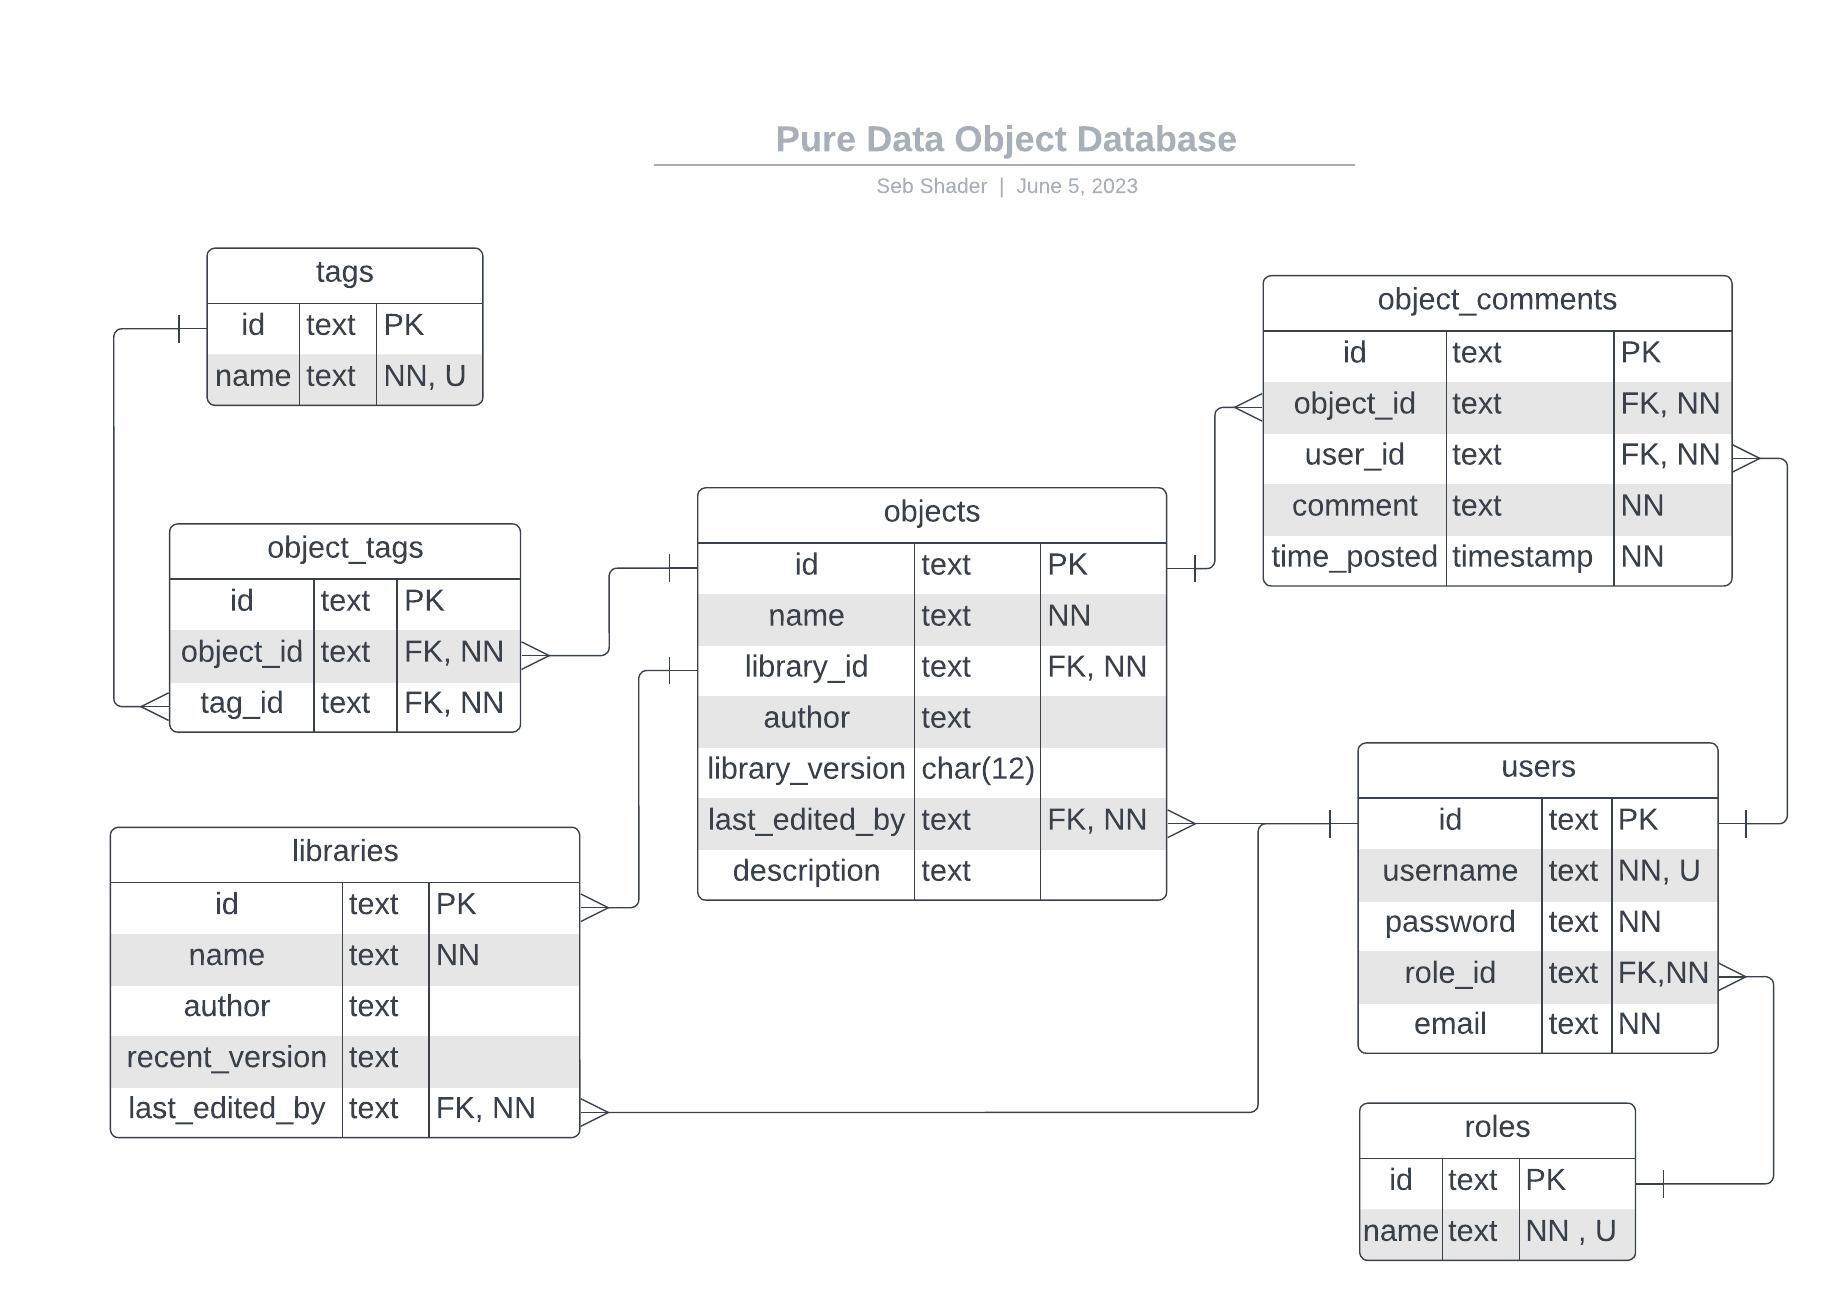
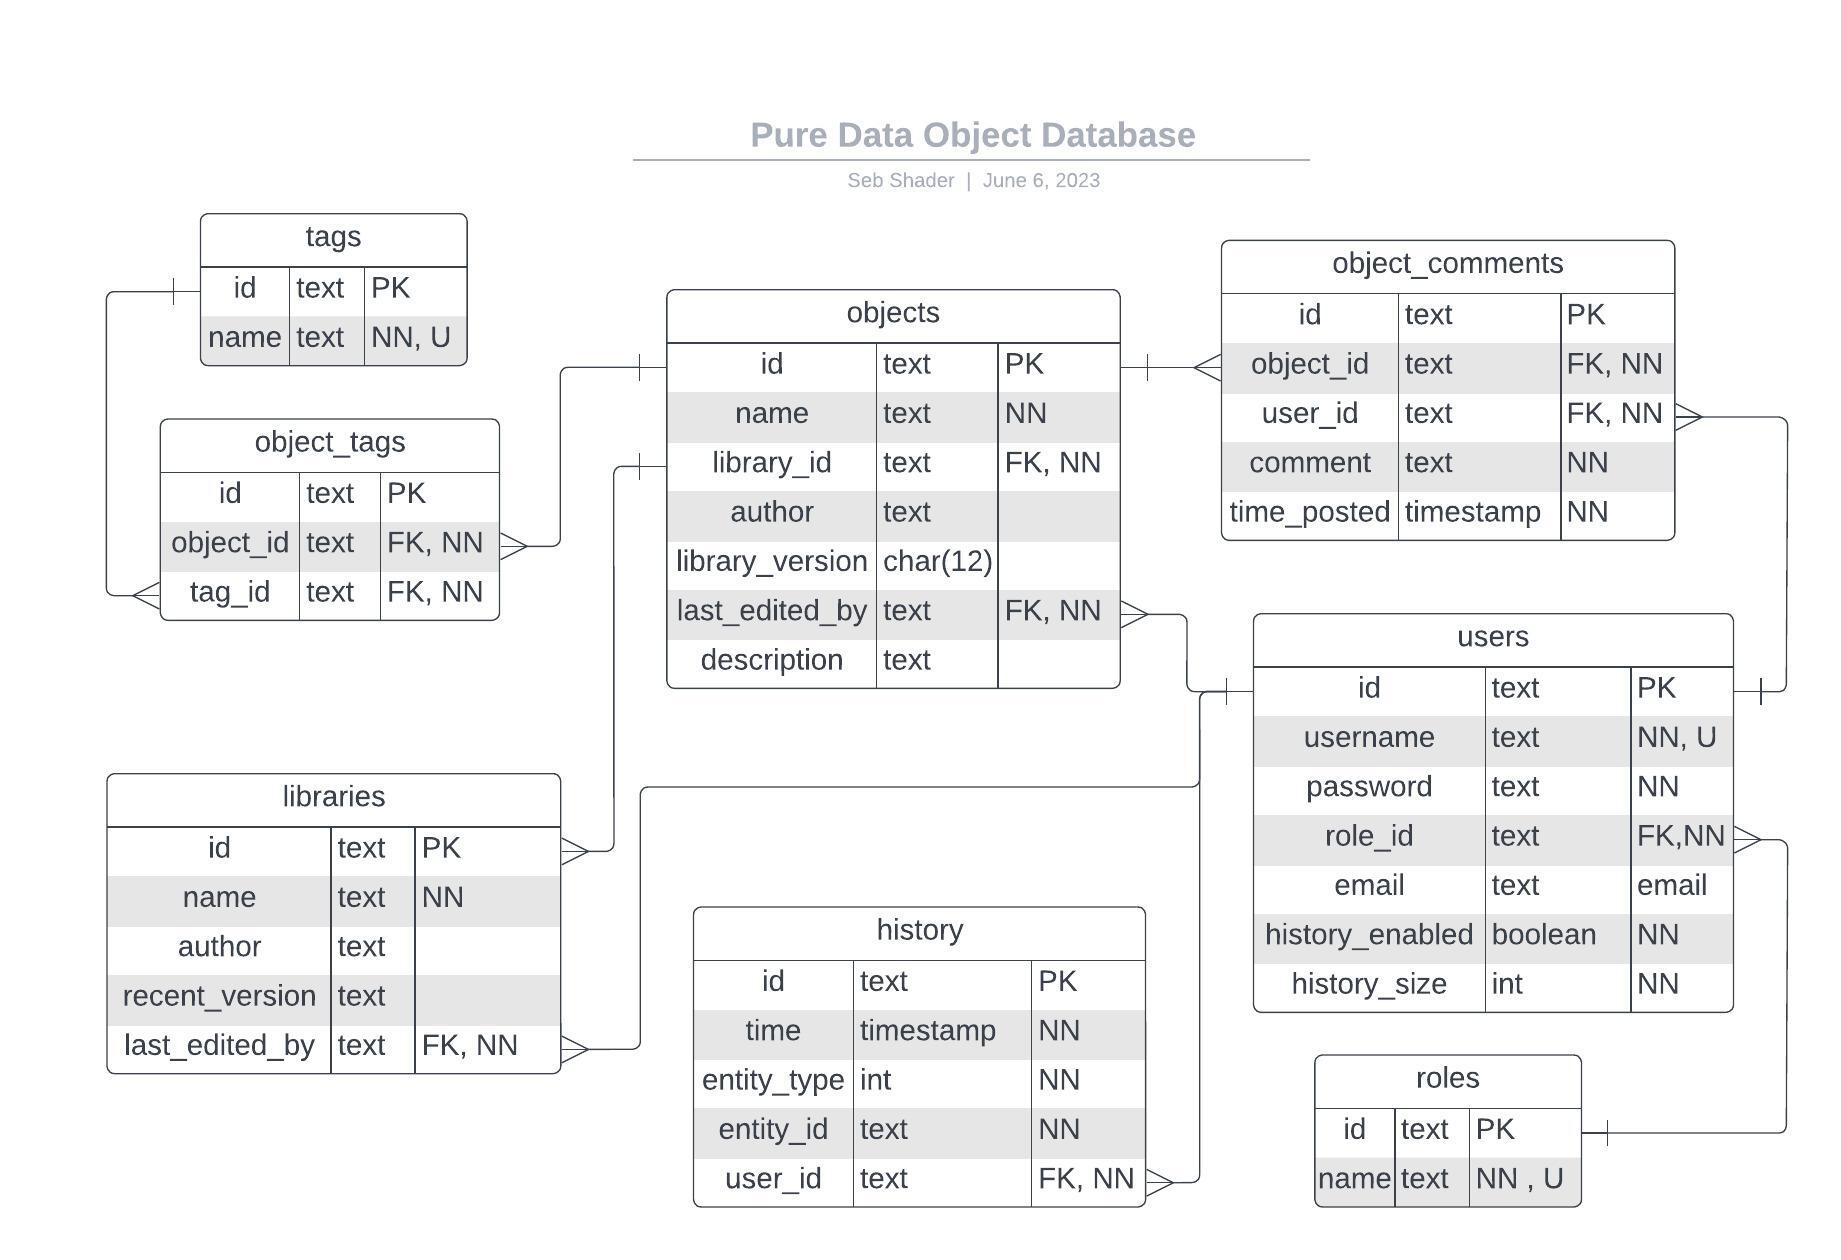
update goals & erd

diff --git a/README.md b/README.md
@@ -13,6 +13,8 @@ Pure Data is a visual dataflow programming environment for dsp, sound design, an
 - **As a user**, I want to search libraries and objects by name
 - **As a user**, I want to leave comments on objects regarding their use and implementation
 - **As a user**, I want to search objects by tag/category
+- **As a user**, I want to add a profile picture that can be viewed by other users
+- **As a user**, I want a list of libraries and objects recommended to me based on my previous view history.
 
 ## MVP (Minimum Viable Product)
 
@@ -24,6 +26,7 @@ Pure Data is a visual dataflow programming environment for dsp, sound design, an
 - Modifying an object and/or library
 - Per-object Comments
 - allow users to query latest version from puredata.info/deken in order to update objects or create libraries.
+- User has a profile with an optional picture and recommendations
 
 ## Stretch Goals
 
